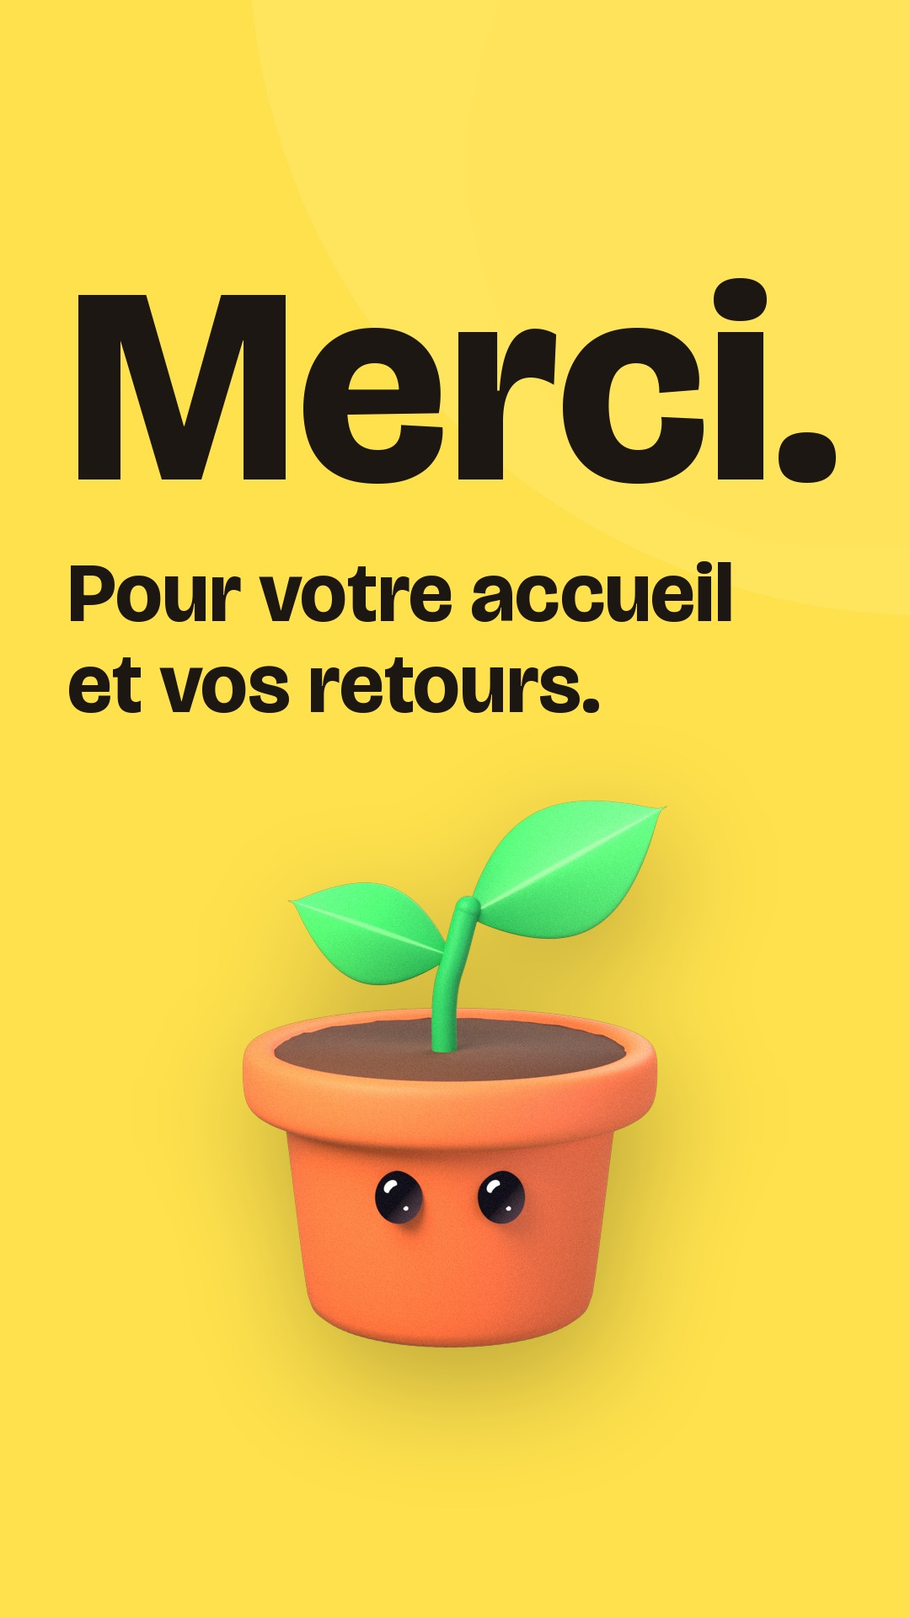
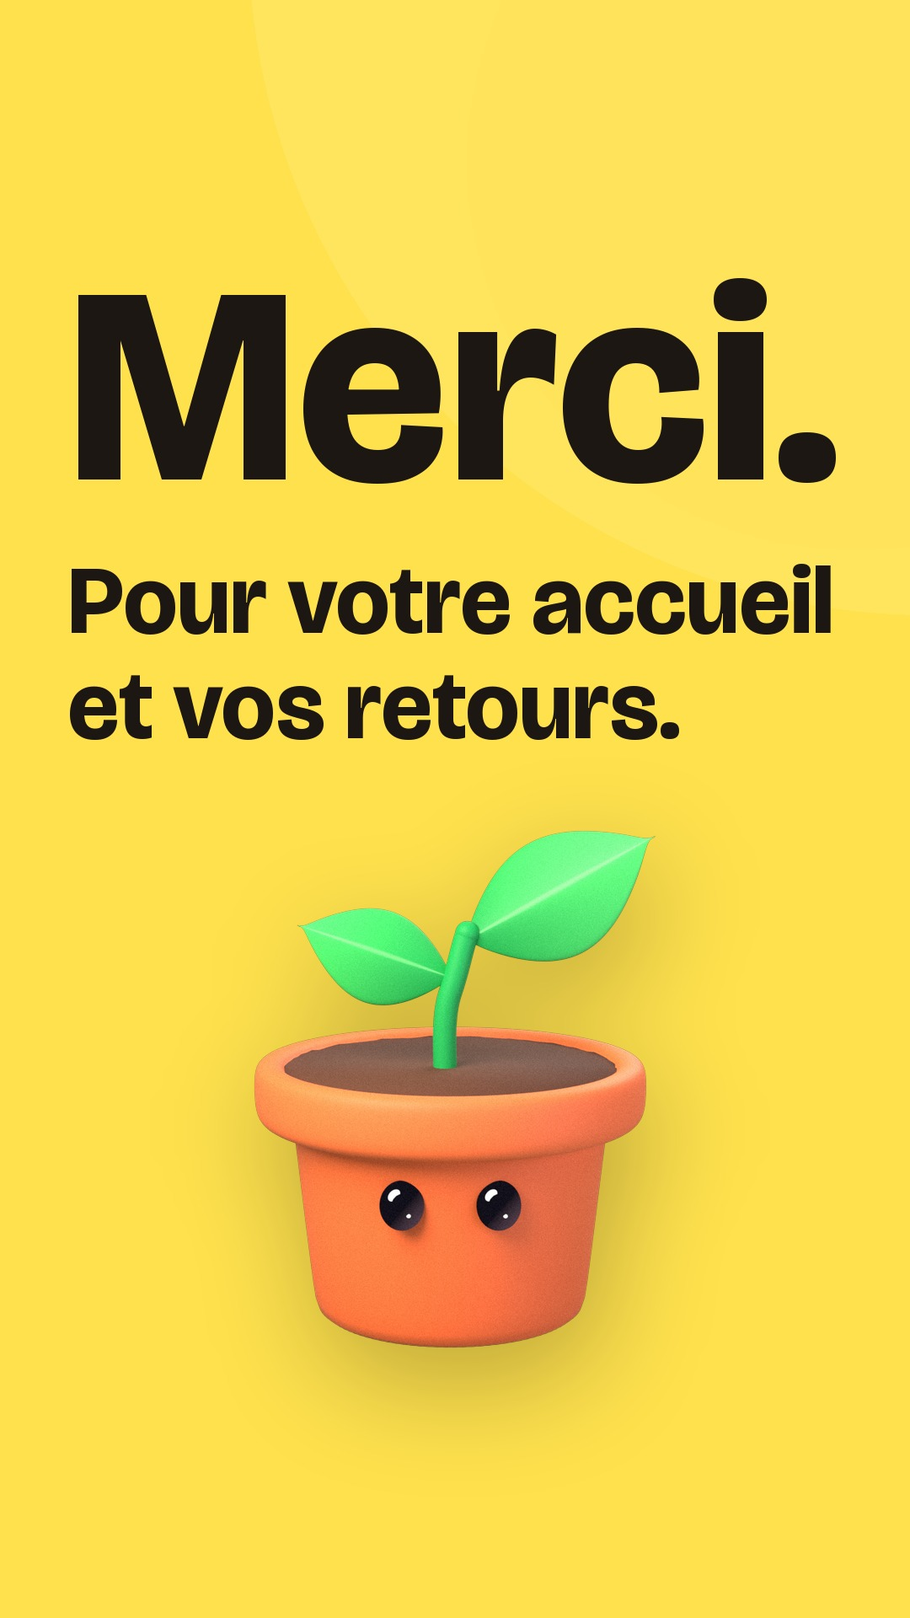
marketing : le kit en anglais, allemand et italien
Les mêmes 65 images par langue, dans marketing/en, de et it. Les textes
sont écrits dans chaque langue, un registre par langue comme dans l'app,
et le compte à rebours y devient « 3 days », « 3 Tage », « 3 giorni ».
Les captures web de ces langues sont reprises avec le nouvel écran
Aujourd'hui.

Un titre géant tient sur sa ligne au lieu de se couper, et la ligne
dessous garde sa taille : la story « Merci » en français change en
conséquence.

Claude-Session: https://claude.ai/code/session_01PDVjaF1d2UBx4x9v8SHUv3

Changed region(s): [[0.0611, 0.3438, 0.9167, 0.8125], [0.3361, 0.7812, 0.3667, 0.8125]]

diff --git a/marketing/kit.py b/marketing/kit.py
@@ -1,14 +1,15 @@
 """Le kit marketing d'Auxine : profils, bannières, publications et stories,
-aux formats courants des réseaux.
+aux formats courants des réseaux, en français, anglais, allemand et italien.
 
-    python3 marketing/kit.py                  # tout, dans marketing/fr/
-    python3 marketing/kit.py store/shots-fr   # avec un autre jeu de captures
+    python3 marketing/kit.py              # les quatre langues, dans marketing/<langue>/
+    python3 marketing/kit.py en           # une seule
+    python3 marketing/kit.py fr store/x   # avec un autre dossier de captures
 
-Les captures viennent de `store/shots-fr/` : celles du web
-(`store/capture.mjs`) ici, celles du simulateur sur un Mac
-(`store/capture_ios.sh`) — le script les reconnaît à leur taille. Les
-couleurs, les polices, l'appareil et les objets 3D sont ceux des visuels du
-magasin (`store/compose.py`), dont ce script reprend les outils.
+Les captures viennent de `store/shots-<langue>/` : celles du web
+(`store/capture.mjs`) ou celles du simulateur (`store/capture_ios.sh`) — le
+script les reconnaît à leur taille. Les couleurs, les polices, l'appareil et
+les objets 3D sont ceux des visuels du magasin (`store/compose.py`), dont ce
+script reprend les outils.
 """
 import os
 import sys
@@ -24,72 +25,184 @@ from PIL import Image, ImageDraw, ImageFilter  # noqa: E402
 C.ensure_fonts()
 C.use('iphone')
 
-SHOTS = sys.argv[1] if len(sys.argv) > 1 else 'store/shots-fr'
-OUT = os.path.join(HERE, 'fr')
 POT = 'assets/icon/rendu/lancement.png'
 OBJ = 'assets/onboarding/collection_{}.webp'
 
-# --- les thèmes ---------------------------------------------------------------
-# Un thème : le titre (coupé à la main), la phrase dessous, la couleur du
-# fond, la capture et l'objet qui s'y pose. Un objet ne se pose jamais sur
-# sa propre couleur.
-THEMES = {
-    'marque': dict(title='Le carnet\nde vos plantes.', sub='Soins, identification, diagnostic et journal photo.',
-                   tint='sage', shot='today', obj=POT),
-    'prix': dict(big=True, title='0,99 €', lead='Un seul achat.\nSans abonnement.', sub=None, tint='sun', shot='plants',
-                 obj=OBJ.format('monstera'),
-                 pills=['Toutes les fonctions', 'Sans publicité', 'Sans achat intégré', 'Plantes illimitées']),
-    'iris': dict(title='Quelle est\ncette plante ?', sub='Une photo suffit, même sans réseau.', tint='lavender',
-                 shot='capture', obj=OBJ.format('ronde')),
-    'soins': dict(title='Chaque matin,\nles soins du jour.', sub='Arrosage, engrais, rempotage : à cocher en un geste.',
-                  tint='water', shot='today', obj=OBJ.format('sansevieria')),
-    'diagnostic': dict(title='Un diagnostic\nsur photo.', sub='Plus de 200 troubles, ravageurs et maladies.',
-                       tint='night', shot='diagnosis', obj=OBJ.format('monstera')),
-    'fiche': dict(title='Une fiche\npar espèce.', sub='Arrosage selon la saison, lumière, engrais, rempotage.',
-                  tint='sage', shot='care', obj=OBJ.format('ronde')),
-    'collection': dict(title='Toutes vos plantes,\nau même endroit.', sub='Avec leur photo, leur espèce et leur pièce.',
-                       tint='rose', shot='plants', obj=OBJ.format('sansevieria')),
-    'calendrier': dict(title='Le jardin\nen calendrier.', sub='Soins à venir, tâches, lieux et inventaire.',
-                       tint='terracotta', shot='garden-calendar', obj=OBJ.format('caoutchouc')),
-    'hors-ligne': dict(title='Vos plantes\nrestent chez vous.', sub='Sans compte, vos données restent sur votre appareil.',
-                       tint='night', shot=None, obj=POT),
+# --- les textes -----------------------------------------------------------------
+# Un seul registre par langue, comme dans l'app : « vous », « you », « du »,
+# « tu ». Chaque langue part de l'intention, pas du français : le compte à
+# rebours « J-3 » n'a pas d'équivalent ailleurs, il y devient « 3 days »,
+# « 3 Tage », « 3 giorni ». Les phrases reprennent celles du site et des
+# visuels du magasin quand elles existent.
+#
+# Le prix : le palier de 0,99 € vaut 1 CHF sur l'App Store suisse. Chaque
+# image qui le dit a sa version « -chf ».
+TEXTES = {
+    'fr': dict(
+        prix='0,99 €', chf='1 CHF',
+        carnet='Le carnet de vos plantes.', carnet2='Le carnet\nde vos plantes.',
+        fonctions='Soins, identification, diagnostic et journal photo.',
+        dispo='Disponible sur l’App Store.', decouvrir='Découvrez\nAuxine.',
+        themes={
+            'prix': ('0,99 €', None, 'Un seul achat.\nSans abonnement.',
+                     ['Toutes les fonctions', 'Sans publicité', 'Sans achat intégré', 'Plantes illimitées']),
+            'iris': ('Quelle est\ncette plante ?', 'Une photo suffit, même sans réseau.'),
+            'soins': ('Chaque matin,\nles soins du jour.', 'Arrosage, engrais, rempotage : à cocher en un geste.'),
+            'diagnostic': ('Un diagnostic\nsur photo.', 'Plus de 200 troubles, ravageurs et maladies.'),
+            'fiche': ('Une fiche\npar espèce.', 'Arrosage selon la saison, lumière, engrais, rempotage.'),
+            'collection': ('Toutes vos plantes,\nau même endroit.', 'Avec leur photo, leur espèce et leur pièce.'),
+            'calendrier': ('Le jardin\nen calendrier.', 'Soins à venir, tâches, lieux et inventaire.'),
+            'hors-ligne': ('Vos plantes\nrestent chez vous.', 'Sans compte, vos données restent sur votre appareil.'),
+            'bientot': ('Bientôt\nsur l’App Store.', 'Auxine, le carnet de vos plantes.'),
+            'j-3': ('J-3', None, 'Auxine arrive\nsur l’App Store.'),
+            'j-2': ('J-2', None, 'Auxine arrive\nsur l’App Store.'),
+            'j-1': ('J-1', None, 'Auxine arrive\nsur l’App Store.'),
+            'disponible': ('Auxine est\ndisponible.', 'Sur l’App Store, pour iPhone et iPad.', None,
+                           ['0,99 €', 'Un seul achat', 'Sans abonnement']),
+            'merci': ('Merci.', None, 'Pour votre accueil\net vos retours.'),
+            'nouveautes': ('Nouveau\ndans Auxine.', 'La mise à jour est sur l’App Store.'),
+        }),
+    'en': dict(
+        prix='€0.99', chf='CHF 1',
+        carnet='The journal for your plants.', carnet2='The journal\nfor your plants.',
+        fonctions='Care, identification, diagnosis and a photo journal.',
+        dispo='Available on the App Store.', decouvrir='Meet\nAuxine.',
+        themes={
+            'prix': ('€0.99', None, 'One purchase.\nNo subscription.',
+                     ['Every feature', 'No ads', 'No in-app purchases', 'Unlimited plants']),
+            'iris': ('What plant\nis this?', 'One photo is enough, even offline.'),
+            'soins': ('Every morning,\ntoday’s care.', 'Watering, feeding, repotting: tick them off in one tap.'),
+            'diagnostic': ('A diagnosis\nfrom a photo.', 'Over 200 disorders, pests and diseases.'),
+            'fiche': ('A care guide\nfor every species.', 'Seasonal watering, light, feeding, repotting.'),
+            'collection': ('All your plants,\nin one place.', 'With their photo, species and room.'),
+            'calendrier': ('Your garden,\nin a calendar.', 'Upcoming care, tasks, places and inventory.'),
+            'hors-ligne': ('Your plants\nstay with you.', 'Without an account, your data stays on your device.'),
+            'bientot': ('Coming soon\nto the App Store.', 'Auxine, the journal for your plants.'),
+            'j-3': ('3 days', None, 'until Auxine reaches\nthe App Store.'),
+            'j-2': ('2 days', None, 'until Auxine reaches\nthe App Store.'),
+            'j-1': ('1 day', None, 'until Auxine reaches\nthe App Store.'),
+            'disponible': ('Auxine is\nout now.', 'On the App Store, for iPhone and iPad.', None,
+                           ['€0.99', 'One purchase', 'No subscription']),
+            'merci': ('Thank you.', None, 'For the warm welcome\nand your feedback.'),
+            'nouveautes': ('New\nin Auxine.', 'The update is on the App Store.'),
+        }),
+    'de': dict(
+        prix='0,99 €', chf='1 CHF',
+        carnet='Das Journal für deine Pflanzen.', carnet2='Das Journal\nfür deine Pflanzen.',
+        fonctions='Pflege, Erkennung, Diagnose und Fotojournal.',
+        dispo='Jetzt im App Store.', decouvrir='Entdecke\nAuxine.',
+        themes={
+            'prix': ('0,99 €', None, 'Einmal kaufen.\nKein Abo.',
+                     ['Alle Funktionen', 'Keine Werbung', 'Keine In-App-Käufe', 'Unbegrenzt Pflanzen']),
+            'iris': ('Welche Pflanze\nist das?', 'Ein Foto genügt, auch ohne Netz.'),
+            'soins': ('Jeden Morgen,\ndie Pflege des Tages.', 'Gießen, Düngen, Umtopfen: mit einem Tipp abhaken.'),
+            'diagnostic': ('Eine Diagnose\nper Foto.', 'Über 200 Störungen, Schädlinge und Krankheiten.'),
+            'fiche': ('Ein Pflegeblatt\nfür jede Art.', 'Gießen je nach Jahreszeit, Licht, Dünger, Umtopfen.'),
+            'collection': ('Alle deine Pflanzen,\nan einem Ort.', 'Mit Foto, Art und Zimmer.'),
+            'calendrier': ('Der Garten\nim Kalender.', 'Anstehende Pflege, Aufgaben, Orte und Bestand.'),
+            'hors-ligne': ('Deine Pflanzen\nbleiben bei dir.', 'Ohne Konto bleiben deine Daten auf deinem Gerät.'),
+            'bientot': ('Bald\nim App Store.', 'Auxine, das Journal für deine Pflanzen.'),
+            'j-3': ('3 Tage', None, 'bis Auxine\nim App Store ist.'),
+            'j-2': ('2 Tage', None, 'bis Auxine\nim App Store ist.'),
+            'j-1': ('1 Tag', None, 'bis Auxine\nim App Store ist.'),
+            'disponible': ('Auxine\nist da.', 'Im App Store, für iPhone und iPad.', None,
+                           ['0,99 €', 'Einmal kaufen', 'Kein Abo']),
+            'merci': ('Danke.', None, 'Für den Empfang\nund dein Feedback.'),
+            'nouveautes': ('Neu\nin Auxine.', 'Das Update ist im App Store.'),
+        }),
+    'it': dict(
+        prix='0,99 €', chf='1 CHF',
+        carnet='Il diario delle tue piante.', carnet2='Il diario\ndelle tue piante.',
+        fonctions='Cure, identificazione, diagnosi e diario fotografico.',
+        dispo='Disponibile sull’App Store.', decouvrir='Scopri\nAuxine.',
+        themes={
+            'prix': ('0,99 €', None, 'Un solo acquisto.\nSenza abbonamento.',
+                     ['Tutte le funzioni', 'Senza pubblicità', 'Senza acquisti in-app', 'Piante illimitate']),
+            'iris': ('Che pianta\nè questa?', 'Basta una foto, anche senza rete.'),
+            'soins': ('Ogni mattina,\nle cure del giorno.', 'Annaffiare, concimare, rinvasare: spunta con un tocco.'),
+            'diagnostic': ('Una diagnosi\nda una foto.', 'Oltre 200 disturbi, parassiti e malattie.'),
+            'fiche': ('Una scheda\nper ogni specie.', 'Annaffiatura secondo la stagione, luce, concime, rinvaso.'),
+            'collection': ('Tutte le tue piante,\nnello stesso posto.', 'Con foto, specie e stanza.'),
+            'calendrier': ('Il giardino\nin calendario.', 'Cure in arrivo, attività, luoghi e inventario.'),
+            'hors-ligne': ('Le tue piante\nrestano con te.', 'Senza account, i tuoi dati restano sul tuo dispositivo.'),
+            'bientot': ('Presto\nsull’App Store.', 'Auxine, il diario delle tue piante.'),
+            'j-3': ('3 giorni', None, 'e Auxine arriva\nsull’App Store.'),
+            'j-2': ('2 giorni', None, 'e Auxine arriva\nsull’App Store.'),
+            'j-1': ('1 giorno', None, 'e Auxine arriva\nsull’App Store.'),
+            'disponible': ('Auxine è\ndisponibile.', 'Sull’App Store, per iPhone e iPad.', None,
+                           ['0,99 €', 'Un solo acquisto', 'Senza abbonamento']),
+            'merci': ('Grazie.', None, 'Per l’accoglienza\ne i tuoi commenti.'),
+            'nouveautes': ('Novità\nin Auxine.', 'L’aggiornamento è sull’App Store.'),
+        }),
 }
 
-
+# --- les thèmes ---------------------------------------------------------------
+# Un thème : la couleur du fond, la capture et l'objet qui s'y pose — les
+# textes viennent de TEXTES. Un objet ne se pose jamais sur sa propre couleur.
+DECOR = {
+    'marque': dict(tint='sage', shot='today', obj=POT),
+    'prix': dict(big=True, tint='sun', shot='plants', obj=OBJ.format('monstera')),
+    'iris': dict(tint='lavender', shot='capture', obj=OBJ.format('ronde')),
+    'soins': dict(tint='water', shot='today', obj=OBJ.format('sansevieria')),
+    'diagnostic': dict(tint='night', shot='diagnosis', obj=OBJ.format('monstera')),
+    'fiche': dict(tint='sage', shot='care', obj=OBJ.format('ronde')),
+    'collection': dict(tint='rose', shot='plants', obj=OBJ.format('sansevieria')),
+    'calendrier': dict(tint='terracotta', shot='garden-calendar', obj=OBJ.format('caoutchouc')),
+    'hors-ligne': dict(tint='night', shot=None, obj=POT),
+}
 # La sortie : l'annonce, l'attente, le compte à rebours, le merci, et un
 # modèle pour chaque mise à jour. Pas de date : elle se met dans le texte
 # qui accompagne l'image.
-SORTIE = {
-    'bientot': dict(title='Bientôt\nsur l’App Store.', sub='Auxine, le carnet de vos plantes.', tint='night', shot=None, obj=POT),
-    'j-3': dict(big=True, title='J-3', lead='Auxine arrive\nsur l’App Store.', sub=None, tint='water', shot=None, obj=POT),
-    'j-2': dict(big=True, title='J-2', lead='Auxine arrive\nsur l’App Store.', sub=None, tint='lavender', shot=None, obj=POT),
-    'j-1': dict(big=True, title='J-1', lead='Auxine arrive\nsur l’App Store.', sub=None, tint='rose', shot=None, obj=POT),
-    'disponible': dict(title='Auxine est\ndisponible.', sub='Sur l’App Store, pour iPhone et iPad.', tint='sage', shot=None, obj=POT,
-                       pills=['0,99 €', 'Un seul achat', 'Sans abonnement']),
-    'disponible-ecran': dict(title='Auxine est\ndisponible.', sub='Sur l’App Store, pour iPhone et iPad.', tint='sun', shot='today',
-                             obj=OBJ.format('monstera'), pills=['0,99 €', 'Un seul achat', 'Sans abonnement']),
-    'merci': dict(big=True, title='Merci.', lead='Pour votre accueil\net vos retours.', sub=None, tint='sun', shot=None, obj=POT),
-    'nouveautes': dict(title='Nouveau\ndans Auxine.', sub='La mise à jour est sur l’App Store.', tint='terracotta', shot='today',
-                       obj=OBJ.format('caoutchouc')),
+DECOR_SORTIE = {
+    'bientot': dict(tint='night', shot=None, obj=POT),
+    'j-3': dict(big=True, tint='water', shot=None, obj=POT),
+    'j-2': dict(big=True, tint='lavender', shot=None, obj=POT),
+    'j-1': dict(big=True, tint='rose', shot=None, obj=POT),
+    'disponible': dict(tint='sage', shot=None, obj=POT),
+    'disponible-ecran': dict(tint='sun', shot='today', obj=OBJ.format('monstera'), textes='disponible'),
+    'merci': dict(big=True, tint='sun', shot=None, obj=POT),
+    'nouveautes': dict(tint='terracotta', shot='today', obj=OBJ.format('caoutchouc')),
 }
 
+# Ce que lisent les outils, réglé par regler() pour chaque langue.
+TXT, THEMES, SORTIE, OUT, SHOTS = {}, {}, {}, '', ''
 
-# Le prix en francs suisses : sur l'App Store suisse, le palier de 0,99 €
-# vaut 1 CHF. Chaque image qui dit le prix a sa version « -chf ».
+
+def regler(lang, shots=None):
+    """Monte les thèmes d'une langue : les décors, et ses textes dedans."""
+    global TXT, THEMES, SORTIE, OUT, SHOTS
+    TXT = TEXTES[lang]
+    OUT = os.path.join(HERE, lang)
+    SHOTS = shots or f'store/shots-{lang}'
+
+    def monter(decors):
+        out = {}
+        for k, d in decors.items():
+            t = dict(d)
+            textes = TXT['themes'].get(t.pop('textes', k), ('', None)) + (None, None)
+            t['title'], t['sub'], t['lead'], pills = textes[0], textes[1], textes[2], textes[3]
+            if pills:
+                t['pills'] = pills
+            out[k] = t
+        return out
+
+    THEMES = monter(DECOR)
+    THEMES['marque'].update(title=TXT['carnet2'], sub=TXT['fonctions'])
+    SORTIE = monter(DECOR_SORTIE)
+    THEMES['prix-chf'] = en_chf(THEMES['prix'])
+    for k in ('disponible', 'disponible-ecran'):
+        SORTIE[f'{k}-chf'] = en_chf(SORTIE[k])
+    THEMES.update(SORTIE)
+
+
 def en_chf(t):
     t = dict(t)
     for k in ('title', 'lead', 'sub'):
         if t.get(k):
-            t[k] = t[k].replace('0,99 €', '1 CHF')
+            t[k] = t[k].replace(TXT['prix'], TXT['chf'])
     if t.get('pills'):
-        t['pills'] = [p.replace('0,99 €', '1 CHF') for p in t['pills']]
+        t['pills'] = [p.replace(TXT['prix'], TXT['chf']) for p in t['pills']]
     return t
-
-
-THEMES['prix-chf'] = en_chf(THEMES['prix'])
-for k in ('disponible', 'disponible-ecran'):
-    SORTIE[f'{k}-chf'] = en_chf(SORTIE[k])
-THEMES.update(SORTIE)
 
 
 # --- les outils ------------------------------------------------------------------
@@ -127,11 +240,21 @@ def texte(img, x, y, width, title, sub, size, ink, ink2, align='left', lead=None
     prend dessous une seconde ligne en Bricolage, [lead]. Rend le bas du bloc."""
     d = ImageDraw.Draw(img)
     # Un mot ne se coupe pas : trop large pour la place, le titre rapetisse.
-    while max(d.textlength(m, font=C.display(size)) for m in title.split()) > width:
+    # Un titre géant (un prix, un compte à rebours) tient sur sa ligne :
+    # « 3 days » coupé en deux ne se lit plus d'un coup d'œil.
+    prevue = size
+    unites = title.split('\n') if size >= 200 else title.split()
+    while max(d.textlength(m, font=C.display(size)) for m in unites) > width:
         size -= 4
     blocs = [(title, C.display(size), 1.06)]
     if lead:
-        blocs.append((lead, C.display(int(size * 0.3), 750), 1.1))
+        # La ligne dessous garde la taille prévue : un titre qui rapetisse
+        # pour tenir ne l'entraîne pas.
+        # Chacune de ses lignes tient sans se couper, quitte à rapetisser.
+        ls = int(prevue * 0.3)
+        while max(d.textlength(l, font=C.display(ls, 750)) for l in lead.split('\n')) > width:
+            ls -= 2
+        blocs.append((lead, C.display(ls, 750), 1.1))
     for texte_, f, interligne in blocs:
         for line in texte_.split('\n'):
             for l in C.wrap(d, line, f, width):
@@ -201,7 +324,7 @@ def marque(img, cx, cy, height, ink, ink2, tagline=True):
     pot = C.crisp(POT, box=int(height))
     title = C.display(int(height * 0.52))
     sub = C.font('Medium', int(height * 0.12))
-    phrase = tagline if isinstance(tagline, str) else 'Le carnet de vos plantes.'
+    phrase = tagline if isinstance(tagline, str) else TXT['carnet']
     tw = d.textlength('Auxine', font=title)
     if tagline:
         tw = max(tw, d.textlength(phrase, font=sub))
@@ -291,7 +414,7 @@ def story(key, dossier=''):
     img, ink, ink2 = fond((1080, 1920), t['tint'])
     if key == 'marque':
         marque(img, 540, 760, 360, ink, ink2, tagline=False)
-        texte(img, 90, 1040, 900, 'Le carnet\nde vos plantes.', 'Soins, identification, diagnostic et journal photo.',
+        texte(img, 90, 1040, 900, TXT['carnet2'], TXT['fonctions'],
               110, ink, ink2, align='center')
         enregistrer(img, f'story-{key}')
         return
@@ -387,13 +510,13 @@ def profils():
     p = C.crisp(POT, box=86)
     img.alpha_composite(p, (70, 58))
     d.text((70 + p.width + 18, 58 + 62), 'Auxine', font=C.display(52), fill=ink, anchor='ls')
-    texte(img, 70, 200, 640, 'Le carnet\nde vos plantes.', 'Soins, identification, diagnostic et journal photo.', 78, ink, ink2)
+    texte(img, 70, 200, 640, TXT['carnet2'], TXT['fonctions'], 78, ink, ink2)
     telephone(img, 'today', 420, 1200 - 420 - 40, 80, -5)
     enregistrer(img, 'apercu-lien-1200x630')
 
     # La miniature d'une vidéo : 1280 × 720.
     img, ink, ink2 = fond((1280, 720), 'sun')
-    texte(img, 80, 90, 640, 'Découvrez\nAuxine.', 'Le carnet de vos plantes.', 150, ink, ink2)
+    texte(img, 80, 90, 640, TXT['decouvrir'], TXT['carnet'], 150, ink, ink2)
     telephone(img, 'plants', 470, 1280 - 470 - 60, 90, -6)
     # Sous la phrase, jamais dessus : le pot se pose entre le texte et l'appareil.
     objet(img, POT, 190, 560, 720 - 36)
@@ -413,20 +536,24 @@ def sortie():
     for nom, taille, cy, h in (('banniere-x-1500x500', (1500, 500), 330, 250),
                                ('banniere-linkedin-1584x396', (1584, 396), 200, 230)):
         img, ink, ink2 = fond(taille, 'sage')
-        marque(img, 675 if taille[0] == 1500 else 900, cy, h, ink, ink2, tagline='Disponible sur l’App Store.')
+        marque(img, 675 if taille[0] == 1500 else 900, cy, h, ink, ink2, tagline=TXT['dispo'])
         enregistrer(img, f'{d}{nom}')
 
 
 if __name__ == '__main__':
-    sortie()
-    profils()
-    for k in ('prix', 'prix-chf', 'iris', 'soins', 'diagnostic', 'fiche', 'hors-ligne'):
-        carre(k)
-    for k in ('prix', 'prix-chf', 'iris', 'soins', 'collection', 'calendrier'):
-        portrait(k)
-    for k in ('marque', 'prix', 'prix-chf', 'iris', 'soins', 'diagnostic'):
-        story(k)
-    for k in ('marque', 'iris', 'prix', 'prix-chf'):
-        paysage(k)
-    n = sum(len(f) for _, _, f in os.walk(OUT))
-    print(n, 'fichiers dans', os.path.relpath(OUT))
+    langues = [sys.argv[1]] if len(sys.argv) > 1 and sys.argv[1] in TEXTES else list(TEXTES)
+    shots = sys.argv[2] if len(sys.argv) > 2 else None
+    for lang in langues:
+        regler(lang, shots)
+        sortie()
+        profils()
+        for k in ('prix', 'prix-chf', 'iris', 'soins', 'diagnostic', 'fiche', 'hors-ligne'):
+            carre(k)
+        for k in ('prix', 'prix-chf', 'iris', 'soins', 'collection', 'calendrier'):
+            portrait(k)
+        for k in ('marque', 'prix', 'prix-chf', 'iris', 'soins', 'diagnostic'):
+            story(k)
+        for k in ('marque', 'iris', 'prix', 'prix-chf'):
+            paysage(k)
+        n = sum(len(f) for _, _, f in os.walk(OUT))
+        print(n, 'fichiers dans', os.path.relpath(OUT))

diff --git a/marketing/README.md b/marketing/README.md
@@ -1,17 +1,26 @@
 # Kit marketing
 
-Les images d'Auxine pour les réseaux, aux formats courants, dans
-`marketing/fr/`. Toutes sortent de `kit.py`, avec les couleurs, les polices,
-l'appareil et les objets 3D des visuels du magasin (`store/compose.py`).
+Les images d'Auxine pour les réseaux, aux formats courants, en quatre
+langues : `marketing/fr/`, `en/`, `de/`, `it/`. Chaque dossier a les mêmes
+fichiers, sous les mêmes noms. Toutes sortent de `kit.py`, avec les couleurs,
+les polices, l'appareil et les objets 3D des visuels du magasin
+(`store/compose.py`).
 
 ```sh
-python3 marketing/kit.py                  # captures de store/shots-fr/
-python3 marketing/kit.py store/shots-fr   # ou un autre dossier
+python3 marketing/kit.py              # les quatre langues
+python3 marketing/kit.py de           # une seule
+python3 marketing/kit.py fr store/x   # avec un autre dossier de captures
 ```
 
-Les captures sont celles de `store/shots-fr/` (hors du dépôt) : du web avec
-`store/capture.mjs`, ou du simulateur avec `store/capture_ios.sh`. Celles du
-simulateur donnent la barre d'onglets native ; le script reconnaît les deux.
+Les captures sont celles de `store/shots-<langue>/` (hors du dépôt) : du web
+avec `store/capture.mjs`, ou du simulateur avec `store/capture_ios.sh`. Celles
+du simulateur donnent la barre d'onglets native ; le script reconnaît les deux.
+
+Les textes sont dans `TEXTES`, un registre par langue comme dans l'app
+(« vous », *you*, *du*, *tu*), écrits depuis l'intention plutôt que traduits
+du français : le compte à rebours « J-3 » devient « 3 days », « 3 Tage »,
+« 3 giorni ». Le prix s'écrit à la façon de chaque langue (« €0.99 » et
+« CHF 1 » en anglais).
 
 ## Les fichiers
 
@@ -63,6 +72,6 @@ Aucune image ne porte de date : elle va dans le texte qui l'accompagne.
 
 ## En francs suisses
 
-Chaque image qui dit le prix existe aussi en « 1 CHF », le palier suisse de
-0,99 €, sous le même nom suivi de `-chf` : `post-carre-prix-chf.jpg`,
-`sortie/story-disponible-chf.jpg`, etc. (12 images).
+Chaque image qui dit le prix existe aussi en francs (« 1 CHF », le palier suisse de
+0,99 €), sous le même nom suivi de `-chf` : `post-carre-prix-chf.jpg`,
+`sortie/story-disponible-chf.jpg`, etc. (12 images par langue).
